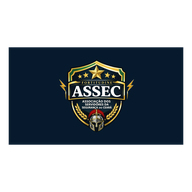
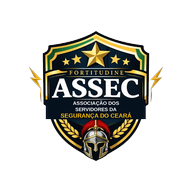
feat: update PWA splash screen, optimize branding assets, and expand manifest configuration

diff --git a/app/web/src/components/ui/PWASplashScreen.tsx b/app/web/src/components/ui/PWASplashScreen.tsx
@@ -19,10 +19,10 @@ export function PWASplashScreen() {
         setIsVisible(true);
         sessionStorage.setItem("pwa-splash-seen", "true");
         
-        // Hide splash screen after 2.8 seconds (2.3s animation + 0.5s fadeout buffer)
+        // Hide splash screen after 2.5 seconds (2.0s static display + 0.5s fade out transition)
         const timer = setTimeout(() => {
           setIsVisible(false);
-        }, 2800);
+        }, 2500);
         return () => clearTimeout(timer);
       }
     }
@@ -35,66 +35,18 @@ export function PWASplashScreen() {
           initial={{ opacity: 1 }}
           exit={{ opacity: 0 }}
           transition={{ duration: 0.5, ease: "easeInOut" }}
-          className="fixed inset-0 bg-[#071A2D] z-[9999] flex flex-col items-center justify-center select-none overflow-hidden"
+          className="fixed inset-0 bg-[#0a1929] z-[9999] flex items-center justify-center select-none overflow-hidden"
         >
-          {/* Subtle Ambient Background Light */}
-          <div className="absolute inset-0 bg-[radial-gradient(circle_at_center,rgba(212,175,55,0.08)_0%,transparent_70%)] pointer-events-none" />
-
-          {/* Responsive Banner Image Container */}
-          <motion.div
-            initial={{ scale: 1.02, opacity: 0 }}
-            animate={{ 
-              scale: 1,
-              opacity: 1,
-            }}
-            exit={{ opacity: 0 }}
-            transition={{ 
-              duration: 1.6,
-              ease: "easeInOut",
-            }}
-            className="absolute inset-0 w-full h-full flex items-center justify-center bg-[#071A2D]"
-          >
-            {/* Desktop layout: Contained poster style with elegant backdrop. Mobile layout: Full-screen cover */}
-            <div className="relative w-full h-full max-w-none md:max-w-md md:max-h-[90vh] md:aspect-[843/1264] md:rounded-2xl md:overflow-hidden md:border md:border-accent/25 md:shadow-2xl">
-              {/* eslint-disable-next-line @next/next/no-img-element */}
-              <img 
-                src="/banner-assec.jpg" 
-                alt="ASSEC Ceará" 
-                className="w-full h-full object-cover"
-                draggable={false}
-              />
-
-              {/* Glowing metallic sweep effect over the banner */}
-              <motion.div
-                initial={{ x: "-100%" }}
-                animate={{ x: "100%" }}
-                transition={{
-                  delay: 0.3,
-                  duration: 1.2,
-                  ease: "easeInOut",
-                }}
-                className="absolute inset-0 bg-gradient-to-r from-transparent via-white/5 to-transparent skew-x-12 pointer-events-none"
-              />
-            </div>
-          </motion.div>
-
-          {/* Subtle pulsing loading status at the bottom */}
-          <motion.div
-            initial={{ opacity: 0 }}
-            animate={{ opacity: [0.4, 0.8, 0.4] }}
-            transition={{
-              delay: 0.8,
-              duration: 1.5,
-              repeat: Infinity,
-              ease: "easeInOut"
-            }}
-            className="absolute bottom-12 flex flex-col items-center gap-2"
-          >
-            <span className="text-[10px] text-accent font-sans font-bold uppercase tracking-[0.25em]">
-              Carregando Portal
-            </span>
-            <div className="h-[2px] w-12 bg-gradient-to-r from-transparent via-accent to-transparent rounded-full" />
-          </motion.div>
+          {/* Central Shield Logo: 40-50% of the screen width */}
+          <div className="w-[45vw] max-w-[320px] md:max-w-[400px] aspect-square flex items-center justify-center">
+            {/* eslint-disable-next-line @next/next/no-img-element */}
+            <img 
+              src="/logo-transparent.webp" 
+              alt="ASSEC Ceará Logo" 
+              className="w-full h-full object-contain"
+              draggable={false}
+            />
+          </div>
         </motion.div>
       )}
     </AnimatePresence>
